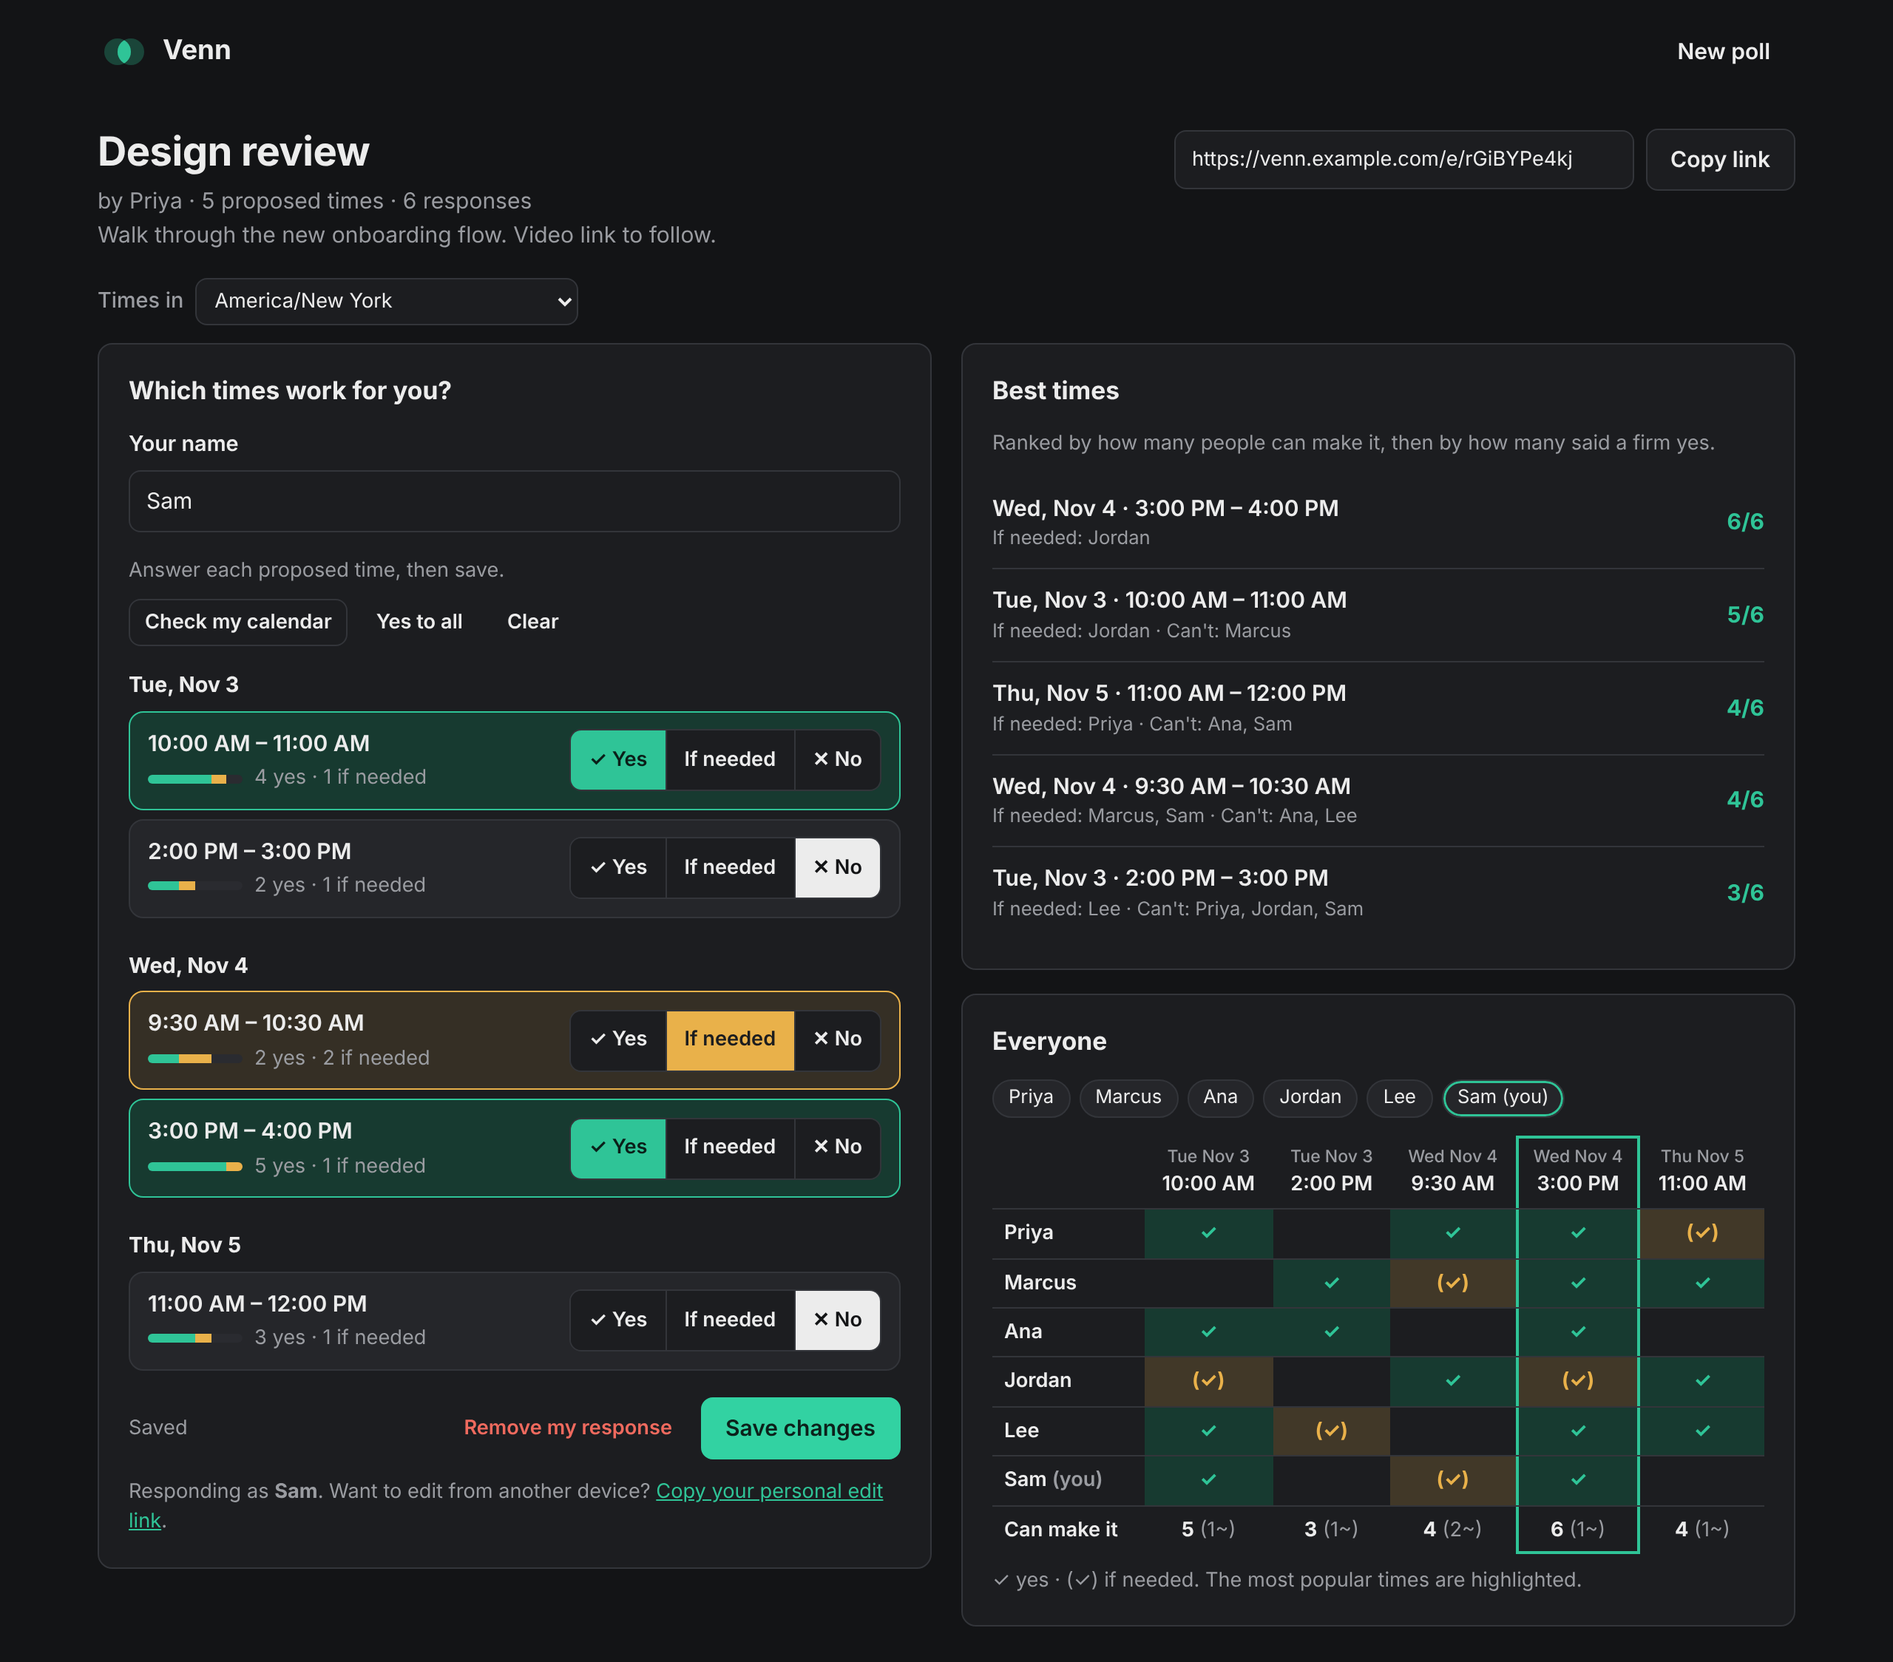
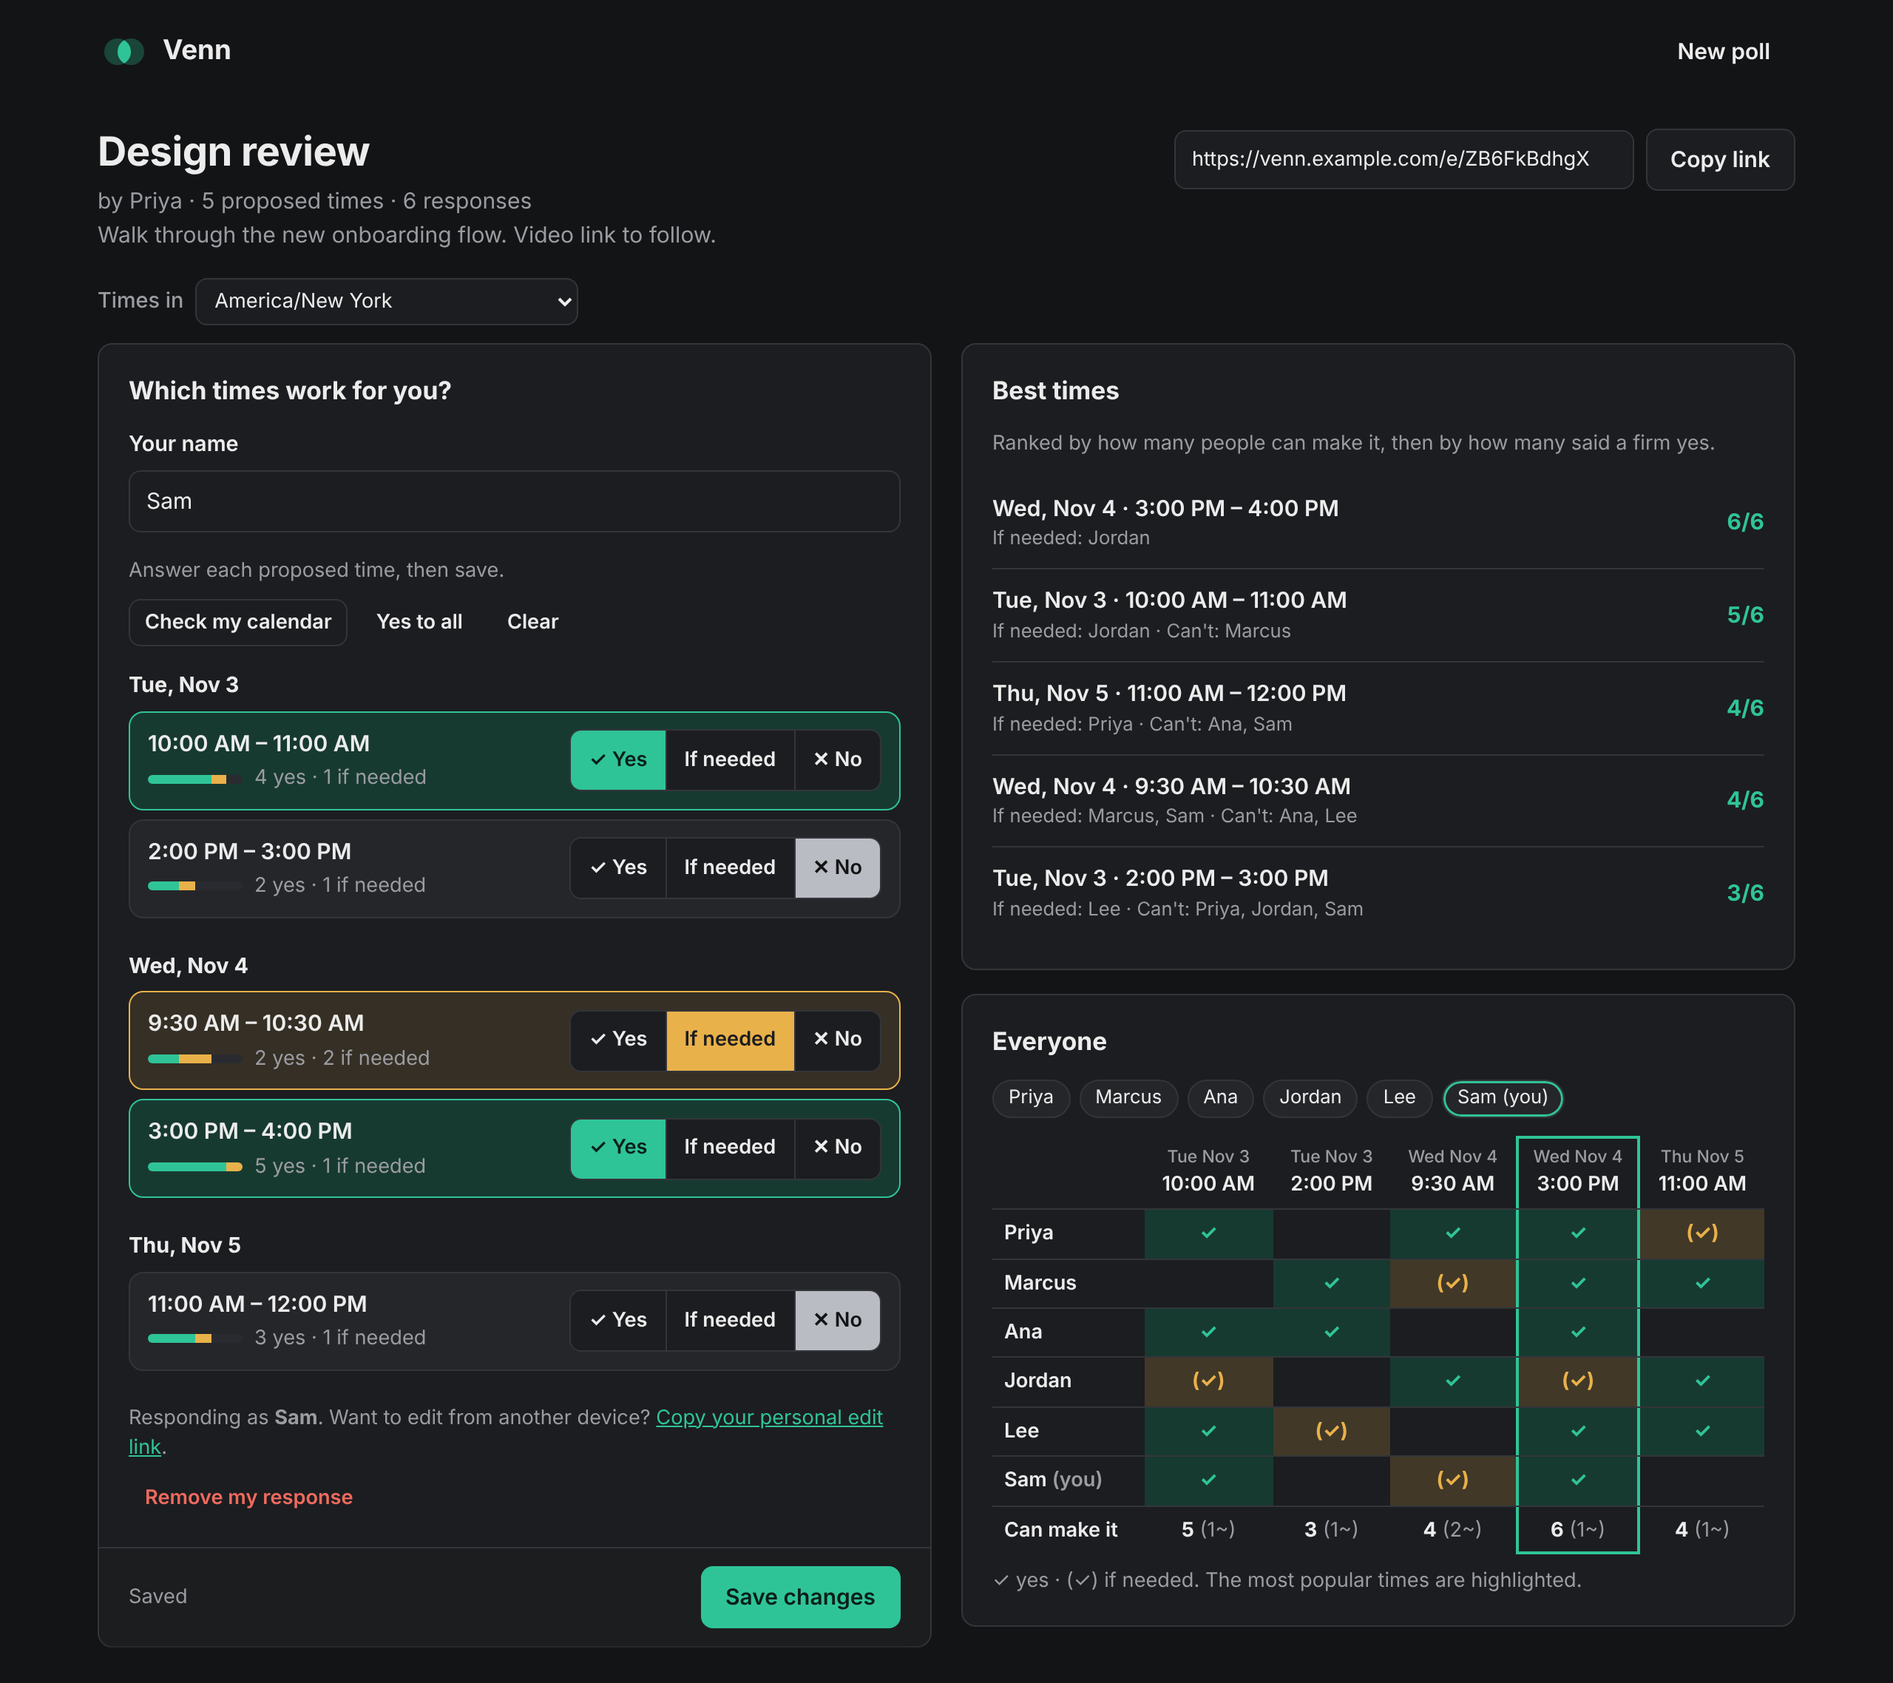
Polish the experience on phones (#5)
- Stop iOS zooming in when a text box is focused (inputs are 16px on touch)
- Sticky Save bar with answer progress ("3 of 10 answered")
- Native share sheet for the poll link on phones
- Tap to pick dates on touch, so swiping over the calendar scrolls
- 44px tap targets; quick actions stay on one row
- Calmer "No" state; toasts move to the top on small screens
- Jump to the results after your first save on narrow screens
- Installable: web app manifest, icons, theme colour, safe areas
- Respect prefers-reduced-motion

Claude-Session: https://claude.ai/code/session_01W4udXvEMxVVNz6vXWPKPi8

diff --git a/public/app.js b/public/app.js
@@ -132,6 +132,7 @@ let cleanup = () => {};
 function route() {
   cleanup();
   cleanup = () => {};
+  document.getElementById('toast').hidden = true;
   const m = location.pathname.match(/^\/e\/([A-Za-z0-9]+)\/?$/);
   if (m) renderEvent(m[1]);
   else renderCreate();
@@ -318,7 +319,7 @@ function renderCreate() {
           .join('');
         const sugg = suggestNext(d);
         return `<div class="day-times">
-          <div class="day-times-head"><b>${esc(dayLabel(d))}</b>${list.length && dates.length > 1 ? `<button type="button" class="btn btn-sm btn-ghost" data-copy="${d}">Use these times on every day</button>` : ''}</div>
+          <div class="day-times-head"><b>${esc(dayLabel(d))}</b>${list.length && dates.length > 1 ? `<button type="button" class="btn btn-sm btn-ghost link-btn" data-copy="${d}">Use these times on every day</button>` : ''}</div>
           <div class="names">${chips || '<span class="small muted">No times yet</span>'}</div>
           <div class="add-time">
             <select data-time="${d}" aria-label="Time to add on ${esc(dayLabel(d))}">${timeChoices.map((m) => `<option value="${m}"${m === sugg ? ' selected' : ''}>${minutesLabel(m)}</option>`).join('')}</select>
@@ -384,12 +385,24 @@ function renderCreate() {
     btn.classList.toggle('selected', dragMode === 'add');
     btn.setAttribute('aria-pressed', dragMode === 'add');
   };
+  let lastPointer = null;
   cal.addEventListener('pointerdown', (e) => {
+    lastPointer = e.pointerType;
     const btn = e.target.closest('.cal-day');
-    if (!btn || btn.disabled) return;
+    if (!btn || btn.disabled || e.pointerType !== 'mouse') return;
     e.preventDefault();
     dragMode = selected.has(btn.dataset.date) ? 'remove' : 'add';
     apply(btn);
+  });
+  // Touch: a click only fires for a tap, not for a scroll that started on the calendar.
+  cal.addEventListener('click', (e) => {
+    const btn = e.target.closest('.cal-day');
+    if (!btn || btn.disabled || !lastPointer || lastPointer === 'mouse') return;
+    lastPointer = null;
+    dragMode = selected.has(btn.dataset.date) ? 'remove' : 'add';
+    apply(btn);
+    dragMode = null;
+    renderCal();
   });
   cal.addEventListener('pointermove', (e) => {
     if (dragMode) apply(document.elementFromPoint(e.clientX, e.clientY)?.closest('.cal-day'));
@@ -547,6 +560,8 @@ async function renderEvent(id) {
   document.title = `${st.ev.title} · Venn`;
   const shareUrl = `${location.origin}/e/${id}`;
   const optionsMode = isOptionsPoll(st.ev);
+  // Phones get the native share sheet (Messages, WhatsApp…); desktops keep copy-to-clipboard.
+  const canShare = !!navigator.share && matchMedia('(pointer: coarse)').matches;
   st.touched = new Set(); // options this visitor explicitly answered (so "No" shows as chosen)
   const me = () => st.ev.participants.find((p) => p.id === saved(id).participantId);
 
@@ -559,7 +574,7 @@ async function renderEvent(id) {
       </div>
       <div class="share">
         <input type="text" readonly value="${esc(shareUrl)}" aria-label="Share link">
-        <button class="btn" id="copy">Copy link</button>
+        <button class="btn" id="copy">${canShare ? 'Share' : 'Copy link'}</button>
       </div>
     </div>
     <div id="banners"></div>
@@ -583,7 +598,7 @@ ${
     ? `
           <div class="btn-row" style="justify-content:space-between">
             <p class="small muted" style="margin:0">Answer each proposed time, then save.</p>
-            <div class="btn-row">
+            <div class="btn-row quick-actions">
               <span class="btn btn-sm file-btn" title="Check the proposed times against a calendar export (.ics)">Check my calendar<input type="file" id="ics" accept=".ics,text/calendar"></span>
               <button type="button" class="btn btn-sm btn-ghost" id="fill">Yes to all</button>
               <button type="button" class="btn btn-sm btn-ghost" id="none">Clear</button>
@@ -596,7 +611,7 @@ ${
               <button type="button" data-brush="${IF_NEEDED}"><span class="swatch swatch-maybe"></span>If needed</button>
               <button type="button" data-brush="0"><span class="swatch swatch-no"></span>Busy</button>
             </div>
-            <div class="btn-row">
+            <div class="btn-row quick-actions">
               <span class="btn btn-sm file-btn" title="Mark the times you're busy from a calendar export (.ics)">Import calendar<input type="file" id="ics" accept=".ics,text/calendar"></span>
               <button type="button" class="btn btn-sm btn-ghost" id="fill">All</button>
               <button type="button" class="btn btn-sm btn-ghost" id="none">None</button>
@@ -606,15 +621,17 @@ ${
           <div class="grid-scroll"><div class="grid" id="mine" role="grid" aria-label="Your availability"></div></div>`
 }
         </div>
-        <div class="save-bar">
-          <span id="save-state" class="small"></span>
-          <div class="btn-row">
-            <button type="button" class="btn btn-ghost btn-danger btn-sm" id="leave" hidden>Remove my response</button>
-            <button type="button" class="btn btn-primary" id="save">Save</button>
-          </div>
+        <div class="mine-footer">
+          <p class="small muted" id="edit-link" hidden style="margin:0"></p>
+          <button type="button" class="btn btn-ghost btn-danger btn-sm" id="leave" hidden>Remove my response</button>
         </div>
-        <div class="error" id="save-err" role="alert"></div>
-        <p class="small muted" id="edit-link" hidden style="margin:12px 0 0"></p>
+        <div class="save-bar">
+          <div>
+            <span id="save-state" class="small"></span>
+            <div class="error" id="save-err" role="alert"></div>
+          </div>
+          <button type="button" class="btn btn-primary" id="save">Save</button>
+        </div>
       </section>
       <div class="stack">
         <section class="card" aria-labelledby="best-h">
@@ -636,7 +653,10 @@ ${
     </div>
     </div>`;
 
-  $('#copy').onclick = () => copy(shareUrl);
+  $('#copy').onclick = () =>
+    canShare
+      ? navigator.share({ title: st.ev.title, text: `Which times work for you? ${st.ev.title}`, url: shareUrl }).catch(() => {})
+      : copy(shareUrl);
   $('.share input').onclick = (e) => e.target.select();
   $('#name').value = me()?.name || lastName();
   $('#name').oninput = () => setDirty(true);
@@ -962,6 +982,10 @@ ${
     if (v) {
       el.className = 'dirty';
       el.textContent = 'Unsaved changes';
+      if (optionsMode) {
+        const answered = st.ev.slots.filter((s) => st.mine[s] || st.touched.has(String(s))).length;
+        el.textContent += ` · ${answered} of ${st.ev.slots.length} answered`;
+      }
     } else {
       el.className = 'small muted';
       el.textContent = me() ? 'Saved' : '';
@@ -1004,6 +1028,9 @@ ${
       setDirty(false);
       renderAll();
       toast(created ? 'Saved! Others can now see your availability.' : 'Saved');
+      // On phones the results are below a long list: take people there after their first save.
+      if (created && matchMedia('(max-width: 900px)').matches)
+        $('#best-h').scrollIntoView({ behavior: matchMedia('(prefers-reduced-motion: reduce)').matches ? 'auto' : 'smooth' });
     } catch (ex) {
       err.textContent = ex.message;
     } finally {

diff --git a/public/styles.css b/public/styles.css
@@ -13,6 +13,8 @@
   --cell-empty: #ecece7;
   --heat: 15, 157, 118;
   --final: #3b5bdb;
+  --no-bg: #5d6066;
+  --no-ink: #ffffff;
   --radius: 10px;
   --shadow: 0 1px 2px rgba(0, 0, 0, 0.05), 0 4px 16px rgba(0, 0, 0, 0.05);
   color-scheme: light;
@@ -33,6 +35,8 @@
     --cell-empty: #2a2b30;
     --heat: 47, 196, 151;
     --final: #7c95ff;
+    --no-bg: #b9bcc2;
+    --no-ink: #131416;
     --shadow: none;
     color-scheme: dark;
   }
@@ -247,7 +251,7 @@ button:focus-visible,
   grid-template-columns: repeat(7, 1fr);
   gap: 4px;
   user-select: none;
-  touch-action: none;
+  touch-action: manipulation;
 }
 .cal-dow {
   text-align: center;
@@ -577,12 +581,39 @@ button:focus-visible,
 }
 
 .save-bar {
+  position: sticky;
+  bottom: 0;
+  z-index: 5;
+  display: flex;
+  gap: 12px;
+  align-items: center;
+  justify-content: space-between;
+  margin: 16px -20px -20px;
+  padding: 12px 20px calc(12px + env(safe-area-inset-bottom));
+  background: color-mix(in srgb, var(--surface) 92%, transparent);
+  backdrop-filter: blur(8px);
+  -webkit-backdrop-filter: blur(8px);
+  border-top: 1px solid var(--border);
+  border-radius: 0 0 var(--radius) var(--radius);
+}
+.save-bar .error {
+  margin-top: 2px;
+}
+.mine-footer {
   display: flex;
   flex-wrap: wrap;
   gap: 8px;
   align-items: center;
   justify-content: space-between;
-  margin-top: 12px;
+  margin-top: 16px;
+}
+.mine-footer:has(> [hidden]:first-child + [hidden]) {
+  display: none;
+}
+.link-btn {
+  padding-left: 0;
+  padding-right: 0;
+  color: var(--accent);
 }
 .dirty {
   color: var(--maybe);
@@ -842,8 +873,8 @@ button:focus-visible,
   color: #1c1d1f;
 }
 .vote .v-no[aria-checked='true'] {
-  background: var(--text);
-  color: var(--bg);
+  background: var(--no-bg);
+  color: var(--no-ink);
 }
 @media (max-width: 520px) {
   .vote {
@@ -937,4 +968,53 @@ button:focus-visible,
 .m-pick {
   display: block;
   margin: 6px auto 0;
+}
+
+/* ---------- touch devices ---------- */
+@media (pointer: coarse) {
+  /* iOS zooms into any input under 16px when it's focused. */
+  input,
+  select,
+  textarea {
+    font-size: 16px !important;
+  }
+  /* Comfortable tap targets (44px guideline). */
+  .btn-sm {
+    min-height: 44px;
+    padding: 8px 12px;
+  }
+  .link-btn {
+    padding-left: 0;
+    padding-right: 0;
+  }
+  .time-chip button,
+  .people .chip button {
+    min-width: 32px;
+    min-height: 32px;
+  }
+}
+@media (max-width: 520px) {
+  .save-bar {
+    margin: 16px -16px -16px;
+    padding: 12px 16px calc(12px + env(safe-area-inset-bottom));
+  }
+  #toast {
+    top: calc(12px + env(safe-area-inset-top));
+    bottom: auto;
+  }
+}
+@media (prefers-reduced-motion: reduce) {
+  * {
+    transition: none !important;
+    scroll-behavior: auto !important;
+  }
+}
+.quick-actions {
+  flex-wrap: nowrap;
+}
+@media (max-width: 520px) {
+  .quick-actions {
+    width: 100%;
+    justify-content: space-between;
+  }
 }

diff --git a/e2e/poll.spec.js b/e2e/poll.spec.js
@@ -69,6 +69,8 @@ test('open time range: paint availability and see the best time', async ({ page,
   await expect(page.locator('#mine .cell[data-slot]').first()).toBeVisible();
 
   const cell = (r, c) => page.locator(`#mine .cell[data-r="${r}"][data-c="${c}"]`);
+  // Keep the painted cells clear of the sticky Save bar at the bottom of the screen.
+  await cell(2, 0).evaluate((el) => el.scrollIntoView({ block: 'center' }));
   if (isMobile) {
     for (const r of [2, 3]) await cell(r, 0).tap();
   } else {
@@ -103,4 +105,48 @@ test('page never scrolls sideways', async ({ page }) => {
 test('unknown poll shows a friendly error', async ({ page }) => {
   await page.goto('/e/doesnotexist');
   await expect(page.getByRole('heading', { name: 'Poll not found' })).toBeVisible();
+});
+
+test('phone: no zoom on focus, tap targets, tap-to-pick dates, Save always in reach', async ({ page, isMobile }) => {
+  test.skip(!isMobile, 'phone-only behaviour');
+  await page.goto('/');
+
+  // iOS zooms into inputs under 16px.
+  const small = await page.evaluate(
+    () =>
+      [...document.querySelectorAll('input, select, textarea')].filter((e) => parseFloat(getComputedStyle(e).fontSize) < 16)
+        .length,
+  );
+  expect(small).toBe(0);
+
+  // Tapping a date toggles it.
+  const day = page.locator('.cal-day:not([disabled])').last();
+  await day.tap();
+  await expect(page.locator('.cal-day.selected')).toHaveCount(1);
+  await page.locator('.cal-day.selected').tap();
+  await expect(page.locator('.cal-day.selected')).toHaveCount(0);
+
+  // Buttons are big enough to tap.
+  await page.click('#weekdays');
+  const tooSmall = await page.evaluate(
+    () => [...document.querySelectorAll('.btn')].filter((b) => b.offsetParent && b.getBoundingClientRect().height < 40).length,
+  );
+  expect(tooSmall).toBe(0);
+
+  // Create a long poll and answer the first time: Save stays on screen and shows progress.
+  await page.fill('#title', 'Long poll');
+  const first = await page.locator('[data-add]').first().getAttribute('data-add');
+  for (let i = 0; i < 3; i++) await page.click(`[data-add="${first}"]`);
+  await page.click(`[data-copy="${first}"]`);
+  await page.click('#submit');
+  await page.locator('.opt').first().locator('[data-vote="2"]').tap();
+  await expect(page.locator('#save-state')).toContainText('1 of 15 answered');
+  const save = await page.locator('#save').boundingBox();
+  expect(save.y + save.height).toBeLessThanOrEqual(page.viewportSize().height);
+});
+
+test('installable: manifest and icons are served', async ({ request }) => {
+  const manifest = await (await request.get('/manifest.webmanifest')).json();
+  expect(manifest.name).toBe('Venn');
+  for (const icon of manifest.icons) expect((await request.get(icon.src)).status()).toBe(200);
 });

diff --git a/scripts/icons.js b/scripts/icons.js
@@ -1,0 +1,24 @@
+// Renders the PNG app icons from public/icons/icon.svg: `npm run icons`.
+import { join, dirname } from 'node:path';
+import { fileURLToPath } from 'node:url';
+import { chromium } from '@playwright/test';
+
+const dir = join(dirname(fileURLToPath(import.meta.url)), '..', 'public', 'icons');
+const browser = await chromium.launch();
+const page = await browser.newPage();
+await page.goto(`file://${join(dir, 'icon.svg')}`);
+for (const [name, size] of [
+  ['icon-192.png', 192],
+  ['icon-512.png', 512],
+  ['apple-touch-icon.png', 180],
+]) {
+  await page.setViewportSize({ width: size, height: size });
+  await page.evaluate((s) => {
+    const svg = document.querySelector('svg');
+    svg.setAttribute('width', s);
+    svg.setAttribute('height', s);
+  }, size);
+  await page.screenshot({ path: join(dir, name), omitBackground: false });
+}
+await browser.close();
+console.log('wrote public/icons/*.png');

diff --git a/public/index.html b/public/index.html
@@ -3,7 +3,11 @@
   <head>
     <meta charset="utf-8" />
     <meta name="referrer" content="no-referrer" />
-    <meta name="viewport" content="width=device-width, initial-scale=1" />
+    <meta name="viewport" content="width=device-width, initial-scale=1, viewport-fit=cover" />
+    <meta name="theme-color" content="#f7f7f5" media="(prefers-color-scheme: light)" />
+    <meta name="theme-color" content="#131416" media="(prefers-color-scheme: dark)" />
+    <link rel="manifest" href="/manifest.webmanifest" />
+    <link rel="apple-touch-icon" href="/icons/apple-touch-icon.png" />
     <title>Venn: find a time that works</title>
     <meta
       name="description"
